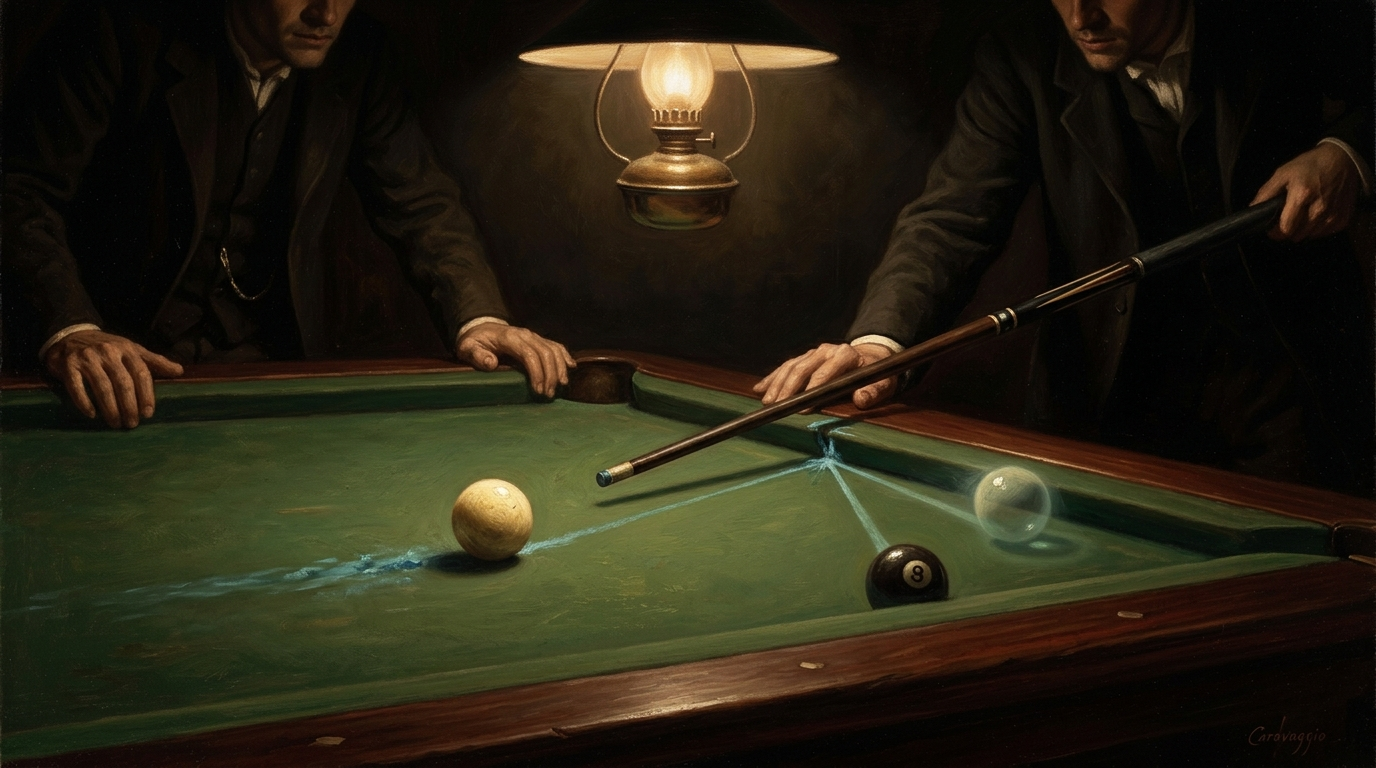
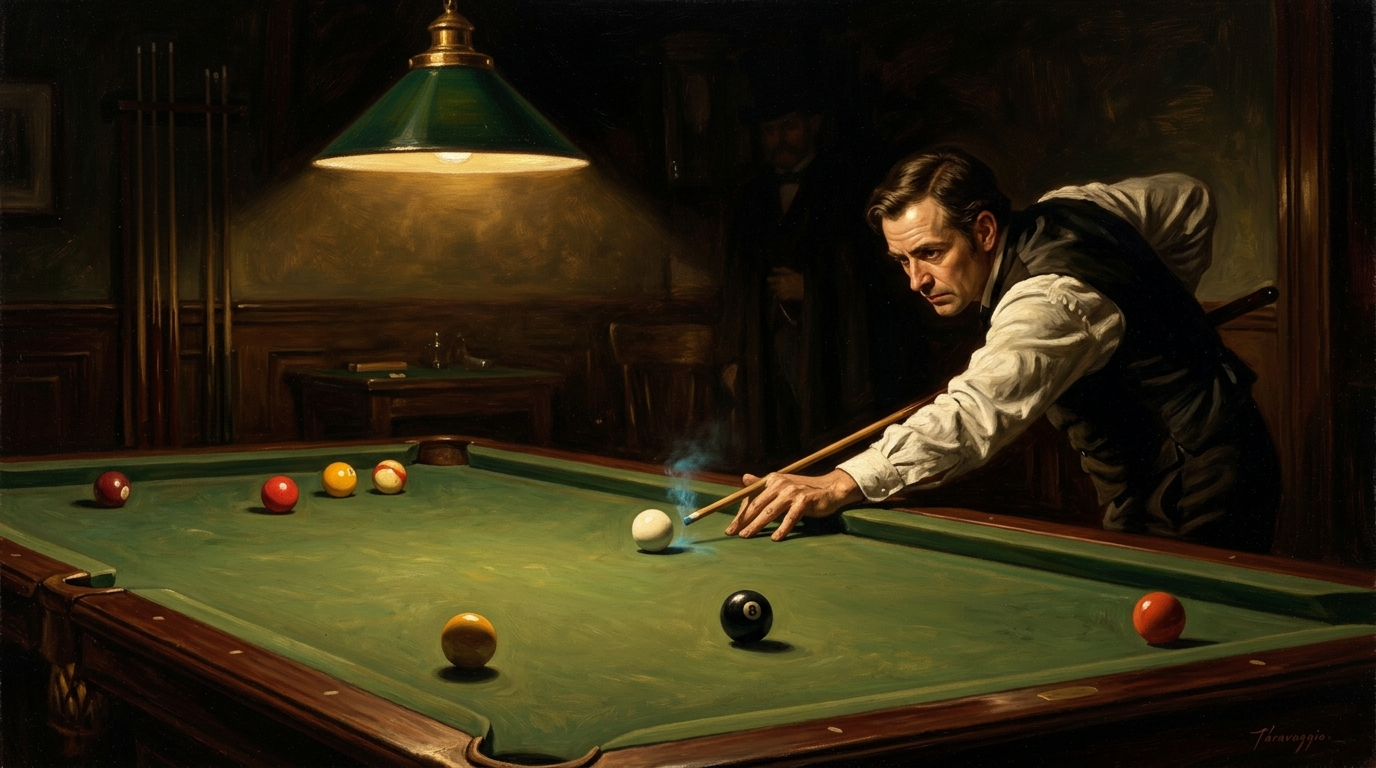
Update cover for The Bank Shot and the Magic Trick: pure realistic chiaroscuro bank shot without imaginary ball

diff --git a/assets/covers/STYLES.md b/assets/covers/STYLES.md
@@ -438,7 +438,7 @@ Grouped by look. One representative name; multiple slugs may share a family (avo
 | `war-revolution-and-the-fall-of-empires` | Piranesi-inspired dark copperplate etching with sepia ink wash on aged laid cotton paper with monumental fractured Roman triumphal arch and colonnade overgrown with ivy, shattered friezes on fractured stone road, and solitary traveler walking into expansive sunrise horizon |
 | `the-causal-inversion-of-philosophical-agency` | Surrealist philosophical oil painting in the style of René Magritte with ornate gilded easel frame showing brass automaton holding quill over diagrams in walnut library, while solitary human thinker stands at open arched window looking out at misty sunrise mountains |
 | `the-mirage-of-the-infinite-totality` | Renaissance celestial planisphere and copperplate engraving on deep indigo fibrous laid paper with monumental brass-and-silver coin standing on edge, one face showing engraved finite map of coordinates, the other dissolving into radiant concentric spirals expanding into open starry field |
-| `the-bank-shot-and-the-magic-trick` | Dramatic chiaroscuro oil painting in the style of Caravaggio with antique billiard table under single overhead lamp, ivory ball rebounding sharply off dark wooden rail with chalk vector, and glowing phantom ghost ball floating beyond the cushion as an imagined mirror target |
+| `the-bank-shot-and-the-magic-trick` | Dramatic chiaroscuro oil painting in the style of Caravaggio of a focused gentleman executing a bank shot on a vintage billiard table under a single hanging brass lamp with dark velvety shadows, solid ivory cue ball struck with blue chalk dust |
 
 ## Crowded — prefer not to extend
 
